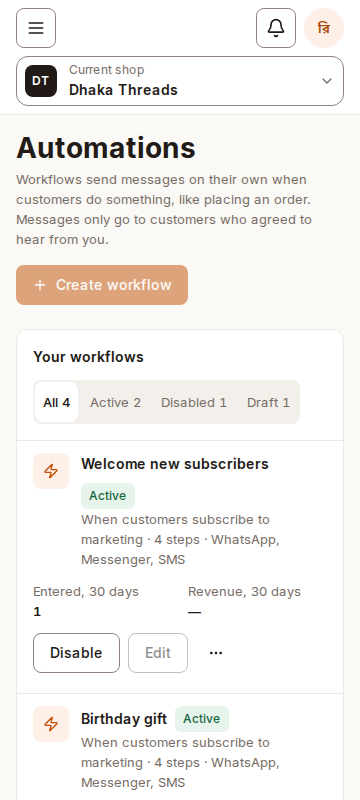
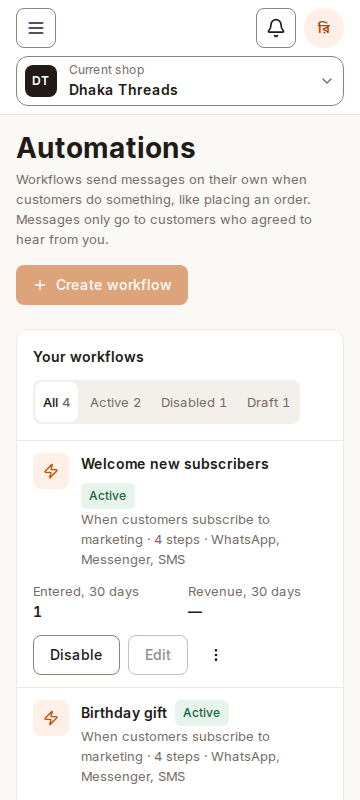
fix(camp-12): separate workflow row actions and match list details

diff --git a/apps/web/src/features/automations/components/automation-row.tsx b/apps/web/src/features/automations/components/automation-row.tsx
@@ -1,6 +1,6 @@
 'use client';
 
-import { Ellipsis, Zap } from 'lucide-react';
+import { EllipsisVertical, Zap } from 'lucide-react';
 import { useState } from 'react';
 
 import type { AutomationListItem } from '@dakly/contracts/automations';
@@ -14,7 +14,7 @@ import {
   DropdownMenuTrigger,
 } from '@dakly/ui/dropdown-menu';
 
-import { useAutomationAction } from '../api/automation-actions';
+import { useChangeAutomationStatus, useDuplicateAutomation } from '../api/automation-actions';
 import { channelLabels, statusLabels, triggerLabels } from '../automation-labels';
 
 export function AutomationRow({
@@ -51,11 +51,13 @@ export function AutomationRow({
       <dl className="grid grid-cols-2 gap-4 text-sm">
         <div>
           <dt className="text-text-muted">Entered, 30 days</dt>
-          <dd className="font-semibold tabular-nums">{draft ? '—' : workflow.enteredLast30Days}</dd>
+          <dd className="text-base font-semibold tabular-nums">
+            {draft ? '—' : workflow.enteredLast30Days}
+          </dd>
         </div>
         <div>
           <dt className="text-text-muted">Revenue, 30 days</dt>
-          <dd className="font-semibold">—</dd>
+          <dd className="text-base font-semibold">—</dd>
         </div>
       </dl>
       {canEdit && <WorkflowActions workflow={workflow} />}
@@ -65,7 +67,9 @@ export function AutomationRow({
 
 function WorkflowActions({ workflow }: { workflow: AutomationListItem }) {
   const [confirm, setConfirm] = useState(false);
-  const action = useAutomationAction();
+  const status = useChangeAutomationStatus();
+  const duplicate = useDuplicateAutomation();
+  const error = status.error ?? duplicate.error;
   const active = workflow.status === 'active';
   const draft = workflow.status === 'draft';
   return (
@@ -74,8 +78,12 @@ function WorkflowActions({ workflow }: { workflow: AutomationListItem }) {
         {!draft && (
           <Button
             variant="secondary"
-            loading={action.isPending && !confirm}
-            onClick={() => action.mutate({ id: workflow.id, action: active ? 'pause' : 'enable' })}
+            loading={status.isPending}
+            disabled={duplicate.isPending}
+            onClick={() => {
+              duplicate.reset();
+              status.mutate({ id: workflow.id, action: active ? 'pause' : 'enable' });
+            }}
           >
             {active ? 'Disable' : 'Enable'}
           </Button>
@@ -86,60 +94,55 @@ function WorkflowActions({ workflow }: { workflow: AutomationListItem }) {
 
         <WorkflowMenu
           workflow={workflow}
-          action={action}
+          disabled={status.isPending || duplicate.isPending}
+          onDuplicate={() => {
+            status.reset();
+            duplicate.mutate(workflow);
+          }}
           onDelete={() => {
-            action.reset();
+            status.reset();
+            duplicate.reset();
             setConfirm(true);
           }}
         />
       </div>
-      {action.isError && !confirm && (
+      {error && (
         <p role="alert" className="text-danger">
-          {action.error.message}
+          {error.message}
         </p>
       )}
-      <DeleteWorkflow
-        workflow={workflow}
-        action={action}
-        open={confirm}
-        onClose={() => setConfirm(false)}
-      />
+      {confirm && <DeleteWorkflow workflow={workflow} onClose={() => setConfirm(false)} />}
     </div>
   );
 }
 
 function WorkflowMenu({
   workflow,
-  action,
+  disabled,
+  onDuplicate,
   onDelete,
 }: {
   workflow: AutomationListItem;
-  action: ReturnType<typeof useAutomationAction>;
+  disabled: boolean;
+  onDuplicate: () => void;
   onDelete: () => void;
 }) {
   return (
     <DropdownMenu>
-      <DropdownMenuTrigger asChild disabled={action.isPending}>
+      <DropdownMenuTrigger asChild disabled={disabled}>
         <Button
           variant="secondary"
           aria-label={`Actions for ${workflow.name}`}
           className="border-transparent px-2"
         >
-          <Ellipsis size={16} aria-hidden="true" />
+          <EllipsisVertical size={16} aria-hidden="true" />
         </Button>
       </DropdownMenuTrigger>
       <DropdownMenuContent>
-        <DropdownMenuItem
-          disabled={action.isPending}
-          onSelect={() =>
-            action.mutate({
-              draft: { name: `${workflow.name.slice(0, 75)} copy`, graph: workflow.graph },
-            })
-          }
-        >
+        <DropdownMenuItem disabled={disabled} onSelect={onDuplicate}>
           Duplicate
         </DropdownMenuItem>
-        <DropdownMenuItem disabled={action.isPending} onSelect={onDelete}>
+        <DropdownMenuItem disabled={disabled} onSelect={onDelete}>
           Delete
         </DropdownMenuItem>
       </DropdownMenuContent>
@@ -149,34 +152,31 @@ function WorkflowMenu({
 
 function DeleteWorkflow({
   workflow,
-  action,
-  open,
   onClose,
 }: {
   workflow: AutomationListItem;
-  action: ReturnType<typeof useAutomationAction>;
-  open: boolean;
   onClose: () => void;
 }) {
+  const archive = useChangeAutomationStatus();
   return (
     <Dialog
-      open={open}
-      onClose={() => onClose()}
-      closeDisabled={action.isPending}
+      open
+      onClose={onClose}
+      closeDisabled={archive.isPending}
       title={`Delete ${workflow.name}?`}
     >
       <Button
         variant="danger"
-        loading={action.isPending}
+        loading={archive.isPending}
         onClick={() =>
-          action.mutate({ id: workflow.id, action: 'archive' }, { onSuccess: () => onClose() })
+          archive.mutate({ id: workflow.id, action: 'archive' }, { onSuccess: () => onClose() })
         }
       >
         Delete workflow
       </Button>
-      {action.isError && (
+      {archive.isError && (
         <p role="alert" className="mt-3 text-danger">
-          {action.error.message}
+          {archive.error.message}
         </p>
       )}
     </Dialog>

diff --git a/apps/web/src/features/automations/api/automation-actions.ts b/apps/web/src/features/automations/api/automation-actions.ts
@@ -1,23 +1,35 @@
 import { useMutation, useQueryClient } from '@tanstack/react-query';
 
-import type { AutomationResponse, CreateAutomationInput } from '@dakly/contracts/automations';
+import {
+  AUTOMATION_NAME_MAX,
+  type AutomationListItem,
+  type AutomationResponse,
+} from '@dakly/contracts/automations';
 
 import { automationKeys } from './automations';
 import { useStoreRequest } from '@/lib/store-request';
 
-export function useAutomationAction() {
+export function useChangeAutomationStatus() {
   const { contextTag, request } = useStoreRequest();
   const client = useQueryClient();
   return useMutation({
-    mutationFn: (
-      input:
-        { id: string; action: 'enable' | 'pause' | 'archive' } | { draft: CreateAutomationInput },
-    ) =>
-      'draft' in input
-        ? request<AutomationResponse>('/automations', { method: 'POST', body: input.draft })
-        : request<AutomationResponse | undefined>(`/automations/${input.id}/${input.action}`, {
-            method: 'POST',
-          }),
+    mutationFn: ({ id, action }: { id: string; action: 'enable' | 'pause' | 'archive' }) =>
+      request(`/automations/${id}/${action}`, { method: 'POST' }),
+    onSuccess: () => client.invalidateQueries({ queryKey: automationKeys.all(contextTag) }),
+  });
+}
+
+export function useDuplicateAutomation() {
+  const { contextTag, request } = useStoreRequest();
+  const client = useQueryClient();
+  return useMutation({
+    mutationFn: ({ name, graph }: Pick<AutomationListItem, 'name' | 'graph'>) => {
+      const suffix = ' copy';
+      return request<AutomationResponse>('/automations', {
+        method: 'POST',
+        body: { name: name.slice(0, AUTOMATION_NAME_MAX - suffix.length) + suffix, graph },
+      });
+    },
     onSuccess: () => client.invalidateQueries({ queryKey: automationKeys.all(contextTag) }),
   });
 }

diff --git a/apps/web/e2e/automation-list.spec.ts b/apps/web/e2e/automation-list.spec.ts
@@ -90,6 +90,35 @@ test('lists workflows, counts recent entries and switches tabs and status', asyn
     await page.getByRole('tab', { name: 'Disabled 2' }).click();
     await welcome.getByRole('button', { name: 'Enable' }).click();
     await expect(page.getByRole('tab', { name: 'Disabled 1' })).toBeVisible();
+    await page.getByRole('tab', { name: 'All 4' }).click();
+    let releaseCopy!: () => void;
+    const copyGate = new Promise<void>((resolve) => {
+      releaseCopy = resolve;
+    });
+    await page.route('**/api/automations', async (route) => {
+      if (route.request().method() === 'POST') await copyGate;
+      await route.continue();
+    });
+    const copied = page.waitForResponse(
+      (response) =>
+        response.url().endsWith('/api/automations') && response.request().method() === 'POST',
+    );
+    await welcome.getByRole('button', { name: `Actions for ${active.name}` }).click();
+    try {
+      await page.getByRole('menuitem', { name: 'Duplicate' }).click();
+      const disable = welcome.getByRole('button', { name: 'Disable' });
+      await expect(disable).toBeDisabled();
+      await expect(disable).not.toHaveAttribute('aria-busy', 'true');
+    } finally {
+      releaseCopy();
+    }
+    const copy: AutomationResponse = await (await copied).json();
+    ids.push(copy.id);
+    await page.getByRole('tab', { name: 'Draft 2' }).click();
+    await page.getByRole('button', { name: `Actions for ${copy.name}` }).click();
+    await page.getByRole('menuitem', { name: 'Delete' }).click();
+    await page.getByRole('dialog').getByRole('button', { name: 'Delete workflow' }).click();
+    await expect(page.getByRole('tab', { name: 'Draft 1' })).toBeVisible();
   } finally {
     await db.pool.query('delete from automation_runs where automation_id=any($1::uuid[])', [ids]);
     await db.pool.query(

diff --git a/apps/web/src/features/automations/components/automations-screen.tsx b/apps/web/src/features/automations/components/automations-screen.tsx
@@ -55,7 +55,9 @@ export function AutomationsScreen() {
                   className="m-0 rounded-md border-0 px-2 text-sm data-[state=active]:bg-surface"
                 >
                   {label}
-                  {workflows.data && <span className="ml-1 tabular-nums">{count}</span>}
+                  {workflows.data && (
+                    <span className="ml-1 text-text-muted tabular-nums">{count}</span>
+                  )}
                 </TabsTrigger>
               );
             })}
@@ -63,9 +65,7 @@ export function AutomationsScreen() {
         </header>
         {tabs.map(({ key }) => (
           <TabsContent key={key} value={key} className="pt-0">
-            {key === selected && (
-              <WorkflowList workflows={workflows} items={selectedItems} canEdit={canEdit} />
-            )}
+            <WorkflowList workflows={workflows} items={selectedItems} canEdit={canEdit} />
           </TabsContent>
         ))}
       </Tabs>

diff --git a/packages/contracts/src/automations.ts b/packages/contracts/src/automations.ts
@@ -29,8 +29,9 @@ export type AutomationExitReason = (typeof automationExitReasons)[number];
 export type AutomationStepKind = (typeof automationStepKinds)[number];
 
 export const MAX_AUTOMATIONS_PER_STORE = 100;
+export const AUTOMATION_NAME_MAX = 80;
 
-const automationNameSchema = z.string().trim().min(1).max(80);
+const automationNameSchema = z.string().trim().min(1).max(AUTOMATION_NAME_MAX);
 
 export const createAutomationSchema = z.strictObject({
   name: automationNameSchema,
